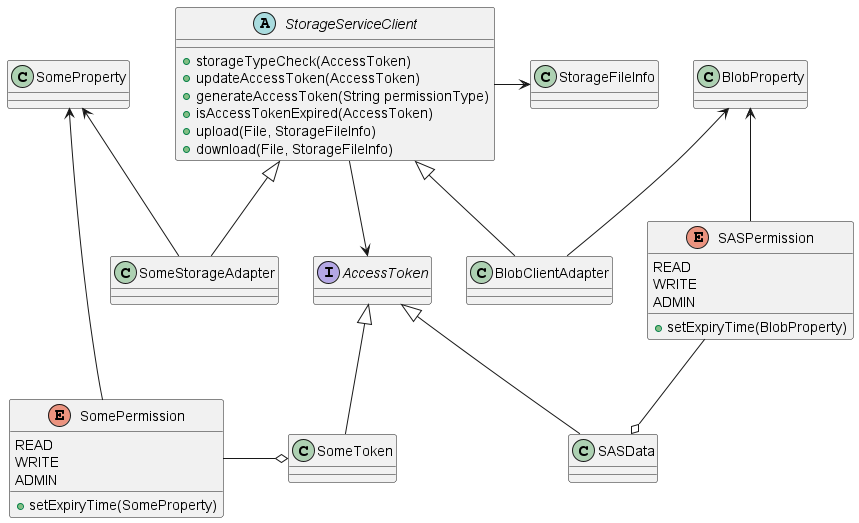
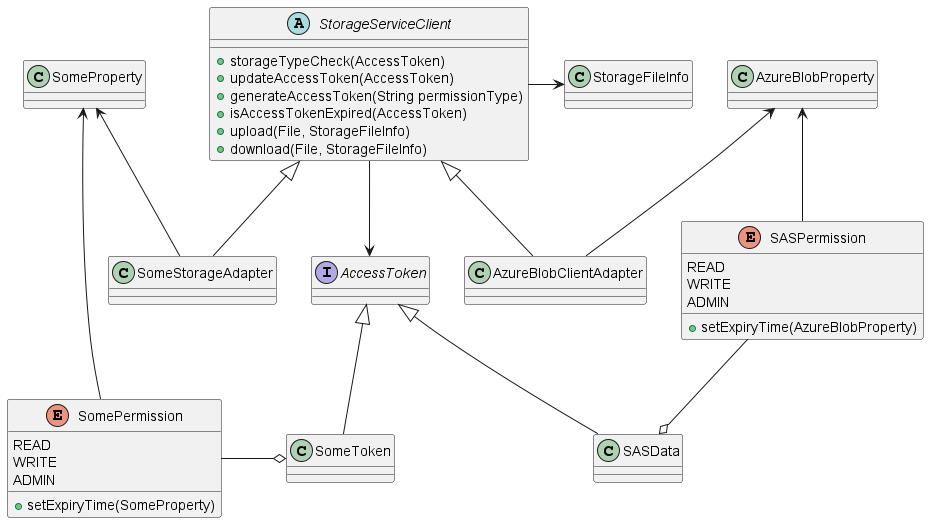
Update storage type value from BLOB to AZURE to specify org-level storage type
TODO:
- Local storage support;
- ADO plugin support;
- Test on Front-end/Plugin changes;
- Before release: DB table update;

diff --git a/common/src/test/java/com/microsoft/hydralab/common/file/blob/MockAzureBlobClient.java b/common/src/test/java/com/microsoft/hydralab/common/file/blob/MockAzureBlobClient.java
@@ -3,8 +3,8 @@
 package com.microsoft.hydralab.common.file.blob;
 
 import com.microsoft.hydralab.common.entity.common.StorageFileInfo;
-import com.microsoft.hydralab.common.file.impl.azure.BlobProperty;
-import com.microsoft.hydralab.common.file.impl.azure.BlobClientAdapter;
+import com.microsoft.hydralab.common.file.impl.azure.AzureBlobProperty;
+import com.microsoft.hydralab.common.file.impl.azure.AzureBlobClientAdapter;
 import com.microsoft.hydralab.common.file.impl.azure.SASData;
 import com.microsoft.hydralab.common.file.impl.azure.SASPermission;
 import org.slf4j.Logger;
@@ -21,18 +21,18 @@ import java.time.ZoneId;
  * @date 11/30/2022
  */
 
-public class MockBlobClient extends BlobClientAdapter {
+public class MockAzureBlobClient extends AzureBlobClientAdapter {
     private static boolean isAuthedBySAS = true;
     private static boolean isConnected = true;
-    Logger classLogger = LoggerFactory.getLogger(MockBlobClient.class);
+    Logger classLogger = LoggerFactory.getLogger(MockAzureBlobClient.class);
     private long SASExpiryUpdate;
 
-    public MockBlobClient(BlobProperty blobProperty) {
-        this.SASExpiryUpdate = blobProperty.getSASExpiryUpdate();
-        SASPermission.READ.setExpiryTime(blobProperty.getSASExpiryTimeFront(), blobProperty.getTimeUnit());
-        SASPermission.WRITE.setExpiryTime(blobProperty.getSASExpiryTimeAgent(), blobProperty.getTimeUnit());
-        fileLimitDay = blobProperty.getFileLimitDay();
-        cdnUrl = blobProperty.getCDNUrl();
+    public MockAzureBlobClient(AzureBlobProperty azureBlobProperty) {
+        this.SASExpiryUpdate = azureBlobProperty.getSASExpiryUpdate();
+        SASPermission.READ.setExpiryTime(azureBlobProperty.getSASExpiryTimeFront(), azureBlobProperty.getTimeUnit());
+        SASPermission.WRITE.setExpiryTime(azureBlobProperty.getSASExpiryTimeAgent(), azureBlobProperty.getTimeUnit());
+        fileLimitDay = azureBlobProperty.getFileLimitDay();
+        cdnUrl = azureBlobProperty.getCDNUrl();
         isAuthedBySAS = false;
         isConnected = true;
         classLogger.info("Init blob client successfully!");

diff --git a/common/src/main/java/com/microsoft/hydralab/common/file/impl/azure/AzureBlobClientAdapter.java b/common/src/main/java/com/microsoft/hydralab/common/file/impl/azure/AzureBlobClientAdapter.java
@@ -32,25 +32,25 @@ import java.time.OffsetDateTime;
 import java.time.ZoneId;
 import java.time.temporal.ChronoUnit;
 
-public class BlobClientAdapter extends StorageServiceClient {
+public class AzureBlobClientAdapter extends StorageServiceClient {
     private static boolean isAuthedBySAS = true;
     private BlobServiceClient blobServiceClient;
-    Logger classLogger = LoggerFactory.getLogger(BlobClientAdapter.class);
+    Logger classLogger = LoggerFactory.getLogger(AzureBlobClientAdapter.class);
     private long SASExpiryUpdate;
     private SASData sasDataInUse = null;
     private SASData sasDataForUpdate = null;
     private boolean isConnected = false;
 
-    public BlobClientAdapter() {
+    public AzureBlobClientAdapter() {
     }
 
-    public BlobClientAdapter(BlobProperty blobProperty) {
-        SASExpiryUpdate = blobProperty.getSASExpiryUpdate();
-        SASPermission.READ.setExpiryTime(blobProperty.getSASExpiryTimeFront(), blobProperty.getTimeUnit());
-        SASPermission.WRITE.setExpiryTime(blobProperty.getSASExpiryTimeAgent(), blobProperty.getTimeUnit());
-        blobServiceClient = new BlobServiceClientBuilder().connectionString(blobProperty.getConnection()).buildClient();
-        fileLimitDay = blobProperty.getFileLimitDay();
-        cdnUrl = blobProperty.getCDNUrl();
+    public AzureBlobClientAdapter(AzureBlobProperty azureBlobProperty) {
+        SASExpiryUpdate = azureBlobProperty.getSASExpiryUpdate();
+        SASPermission.READ.setExpiryTime(azureBlobProperty.getSASExpiryTimeFront(), azureBlobProperty.getTimeUnit());
+        SASPermission.WRITE.setExpiryTime(azureBlobProperty.getSASExpiryTimeAgent(), azureBlobProperty.getTimeUnit());
+        blobServiceClient = new BlobServiceClientBuilder().connectionString(azureBlobProperty.getConnection()).buildClient();
+        fileLimitDay = azureBlobProperty.getFileLimitDay();
+        cdnUrl = azureBlobProperty.getCDNUrl();
         isAuthedBySAS = false;
         isConnected = true;
     }

diff --git a/center/src/main/java/com/microsoft/hydralab/center/config/AppConfig.java b/center/src/main/java/com/microsoft/hydralab/center/config/AppConfig.java
@@ -7,9 +7,9 @@ import com.alibaba.fastjson.serializer.SerializerFeature;
 import com.alibaba.fastjson.support.config.FastJsonConfig;
 import com.alibaba.fastjson.support.spring.FastJsonHttpMessageConverter;
 import com.microsoft.hydralab.common.file.StorageServiceClient;
-import com.microsoft.hydralab.common.file.impl.azure.BlobClientAdapter;
+import com.microsoft.hydralab.common.file.impl.azure.AzureBlobClientAdapter;
 import com.microsoft.hydralab.common.monitor.MetricPushGateway;
-import com.microsoft.hydralab.common.file.impl.azure.BlobProperty;
+import com.microsoft.hydralab.common.file.impl.azure.AzureBlobProperty;
 import com.microsoft.hydralab.common.util.Const;
 import io.prometheus.client.CollectorRegistry;
 import io.prometheus.client.exporter.BasicAuthHttpConnectionFactory;
@@ -70,8 +70,8 @@ public class AppConfig {
         StorageServiceClient storageServiceClient = null;
         switch (storageType) {
             case Const.StorageType.BLOB:
-                BlobProperty blobProperty = applicationContext.getBean(Const.StoragePropertyBean.BLOB, BlobProperty.class);
-                storageServiceClient = new BlobClientAdapter(blobProperty);
+                AzureBlobProperty azureBlobProperty = applicationContext.getBean(Const.StoragePropertyBean.AZURE, AzureBlobProperty.class);
+                storageServiceClient = new AzureBlobClientAdapter(azureBlobProperty);
                 break;
             default:
                 // todo: local storage system

diff --git a/common/src/test/java/com/microsoft/hydralab/common/file/blob/BlobClientTest.java b/common/src/test/java/com/microsoft/hydralab/common/file/blob/BlobClientTest.java
@@ -19,7 +19,7 @@ import java.io.File;
 class BlobClientTest extends BaseTest {
     StorageServiceClient storageServiceClient;
     File sampleFile = new File("src/test/resources/uitestsample.ipa");
-    BlobProperty property = new BlobProperty();
+    AzureBlobProperty property = new AzureBlobProperty();
 
     @BeforeAll
     void initBlob() {
@@ -40,9 +40,9 @@ class BlobClientTest extends BaseTest {
         property.setTimeUnit("SECONDS");
 
         if (StringUtils.isBlank(connectionString)) {
-            storageServiceClient = new MockBlobClient(property);
+            storageServiceClient = new MockAzureBlobClient(property);
         } else {
-            storageServiceClient = new BlobClientAdapter(property);
+            storageServiceClient = new AzureBlobClientAdapter(property);
         }
     }
 
@@ -58,7 +58,7 @@ class BlobClientTest extends BaseTest {
     @Test
     @Order(2)
     void downloadFile() {
-        if (!(storageServiceClient instanceof MockBlobClient)) {
+        if (!(storageServiceClient instanceof MockAzureBlobClient)) {
             File sampleFile_copy = new File("src/test/resources/uitestsample_1.ipa");
             StorageFileInfo fileInfo = new StorageFileInfo();
             fileInfo.setFileType(StorageFileInfo.FileType.APP_FILE);

diff --git a/agent/src/main/java/com/microsoft/hydralab/agent/config/AppConfiguration.java b/agent/src/main/java/com/microsoft/hydralab/agent/config/AppConfiguration.java
@@ -10,7 +10,7 @@ import com.microsoft.hydralab.agent.runner.smart.SmartTestUtil;
 import com.microsoft.hydralab.agent.service.AgentWebSocketClientService;
 import com.microsoft.hydralab.agent.socket.AgentWebSocketClient;
 import com.microsoft.hydralab.common.file.StorageServiceClient;
-import com.microsoft.hydralab.common.file.impl.azure.BlobClientAdapter;
+import com.microsoft.hydralab.common.file.impl.azure.AzureBlobClientAdapter;
 import com.microsoft.hydralab.common.management.AgentType;
 import com.microsoft.hydralab.common.management.AppiumServerManager;
 import com.microsoft.hydralab.common.management.DeviceManager;
@@ -175,7 +175,7 @@ public class AppConfiguration {
         StorageServiceClient storageServiceClient = null;
         switch (storageType) {
             case Const.StorageType.BLOB:
-                storageServiceClient = new BlobClientAdapter();
+                storageServiceClient = new AzureBlobClientAdapter();
                 break;
             default:
                 // todo: local storage system

diff --git a/common/src/main/java/com/microsoft/hydralab/common/entity/common/EntityType.java b/common/src/main/java/com/microsoft/hydralab/common/entity/common/EntityType.java
@@ -2,14 +2,14 @@
 // Licensed under the MIT License.
 package com.microsoft.hydralab.common.entity.common;
 
-import com.microsoft.hydralab.common.file.impl.azure.BlobConstants;
+import com.microsoft.hydralab.common.file.impl.azure.AzureBlobConstants;
 
 public enum EntityType {
-    APP_FILE_SET("FILE_SET", BlobConstants.PKG_BLOB_NAME),
-    TEST_RESULT("TEST_RES", BlobConstants.TEST_RESULT_BLOB_NAME),
-    AGENT_PACKAGE("AGENT_PKG", BlobConstants.PKG_BLOB_NAME),
-    TEST_JSON("TEST_JSON", BlobConstants.TEST_JSON),
-    SCREENSHOT("SCREENSHOT", BlobConstants.IMAGES_BLOB_NAME);
+    APP_FILE_SET("FILE_SET", AzureBlobConstants.PKG_BLOB_NAME),
+    TEST_RESULT("TEST_RES", AzureBlobConstants.TEST_RESULT_BLOB_NAME),
+    AGENT_PACKAGE("AGENT_PKG", AzureBlobConstants.PKG_BLOB_NAME),
+    TEST_JSON("TEST_JSON", AzureBlobConstants.TEST_JSON),
+    SCREENSHOT("SCREENSHOT", AzureBlobConstants.IMAGES_BLOB_NAME);
 
     public String typeName;
     public String storageContainer;

diff --git a/common/src/main/java/com/microsoft/hydralab/common/file/impl/azure/AzureBlobConstants.java b/common/src/main/java/com/microsoft/hydralab/common/file/impl/azure/AzureBlobConstants.java
@@ -2,7 +2,7 @@
 // Licensed under the MIT License.
 package com.microsoft.hydralab.common.file.impl.azure;
 
-public interface BlobConstants {
+public interface AzureBlobConstants {
     String PKG_BLOB_NAME = "pkgstore";
     String IMAGES_BLOB_NAME = "images";
     String TEST_SUITE_BLOB_NAME = "testsuitestore";

diff --git a/common/src/main/java/com/microsoft/hydralab/common/file/impl/azure/AzureBlobProperty.java b/common/src/main/java/com/microsoft/hydralab/common/file/impl/azure/AzureBlobProperty.java
@@ -13,7 +13,7 @@ import org.springframework.stereotype.Component;
 @Data
 @ConfigurationProperties(prefix = "app.storage.blob")
 @Component
-public class BlobProperty {
+public class AzureBlobProperty {
     private String connection;
     private long SASExpiryTimeFront;
     private long SASExpiryTimeAgent;

diff --git a/common/src/main/java/com/microsoft/hydralab/common/util/Const.java b/common/src/main/java/com/microsoft/hydralab/common/util/Const.java
@@ -153,6 +153,6 @@ public interface Const {
 
     interface StoragePropertyBean {
         String LOCAL = "localProperty";
-        String BLOB = "blobProperty";
+        String AZURE = "azureBlobProperty";
     }
 }
